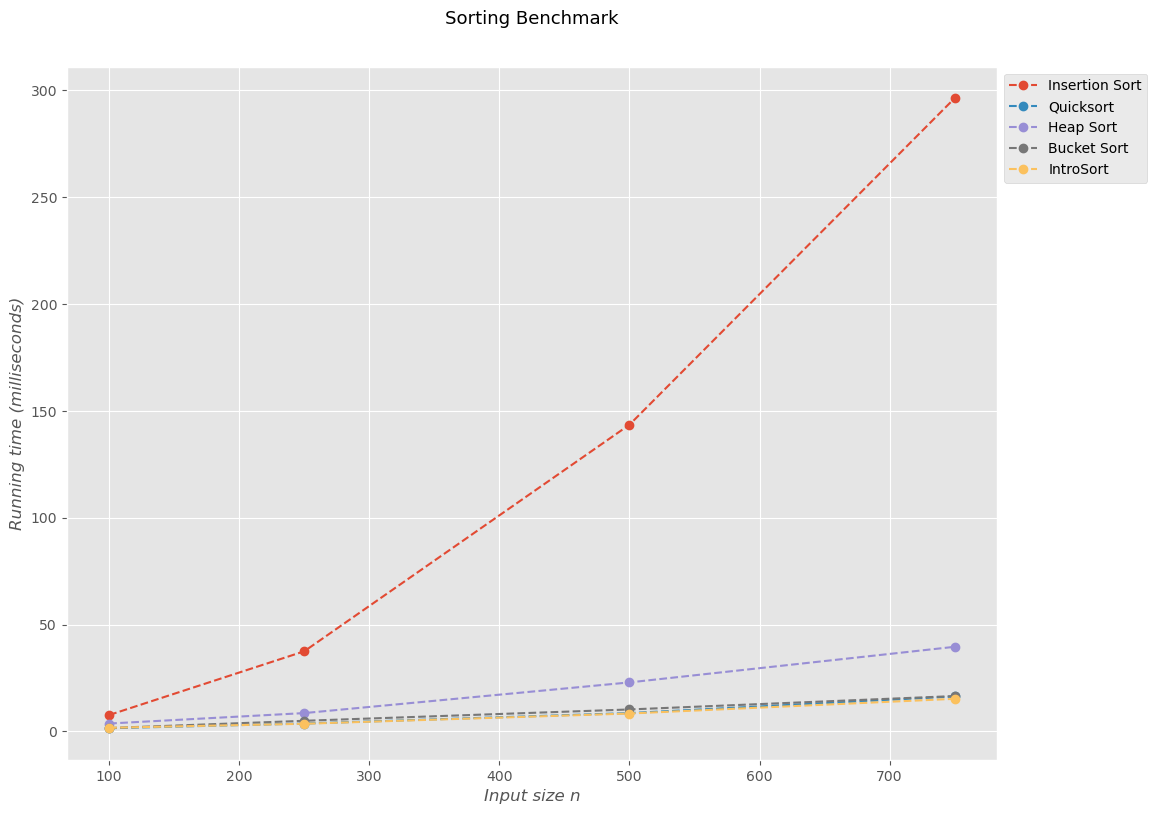
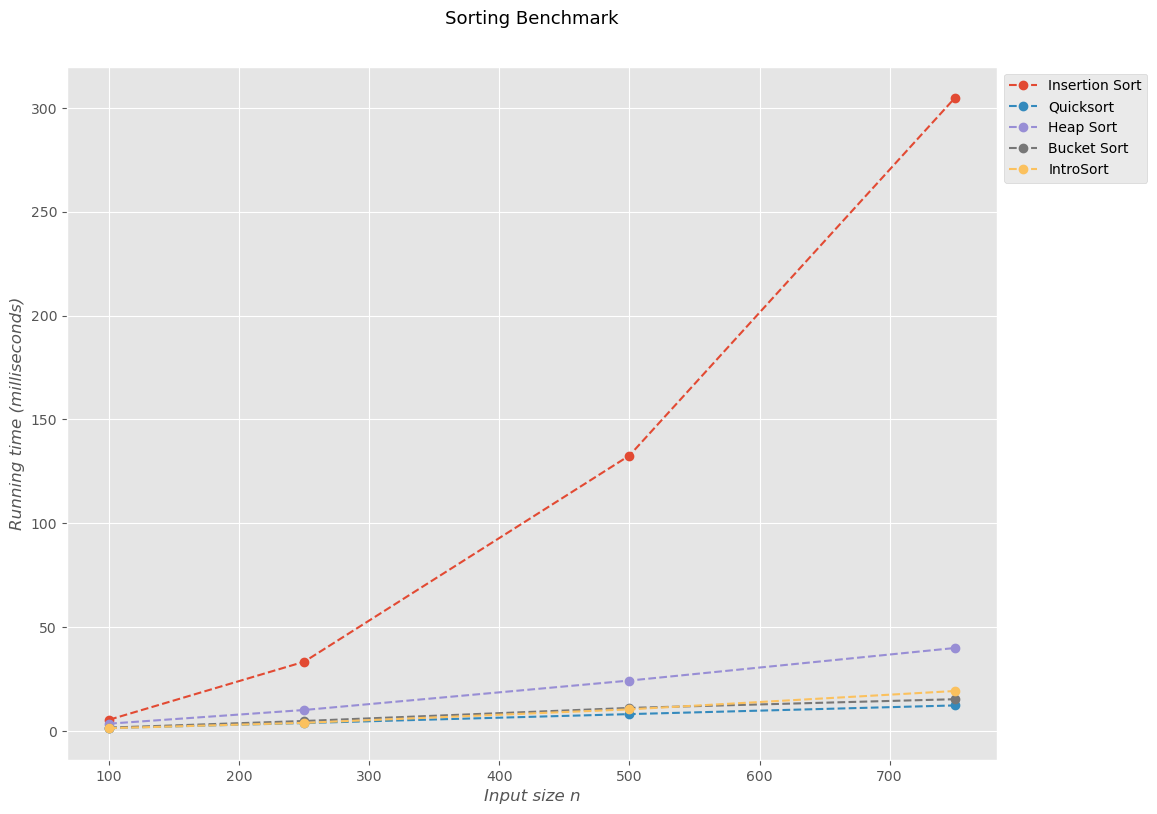
Created another chart for big o (excluding insertion sort) otherwise the lines are too close to each other. Added dpcstring to bucket, quick and inserion sorts

diff --git a/sorting_algorithms.py b/sorting_algorithms.py
@@ -13,17 +13,22 @@ import numpy as np
 
 
 def insertionSort(array, begin=0, end=None):
+    """ Sorting is done by splitting the array into a sorted and 
+    an unsorted part. Values from the unsorted part are selected 
+    and moved to their correct position in the sorted part. """
 
-    # Loop through the array starting from its second element
+    # None is initiated to be used in IntroSort implementation
     if end == None:
         end = len(array)
 
+    # Loop through the array
     for slot in range(begin, end):
 
         # Select the element to position in its correct place
         current_value = array[slot]
 
-        # Initialize a variable for finding the correct position of the current value
+        # Initialize a variable for finding the correct position of
+        # the current value
         position = slot
 
         # Loop through the array and find the correct position
@@ -46,6 +51,9 @@ def insertionSort(array, begin=0, end=None):
 # https://brilliant.org/wiki/quick-sort/
 
 def quickSort(array):
+    """ Sorting is done by selecting an element as pivot 
+    to partition the array around the picked pivot. """
+
     # Base case for the recursion where there is
     # only one element in the array.
     length = len(array)
@@ -87,8 +95,8 @@ def heapSort(array):
             max_heapify(array, heap_size, i)
 
     def max_heapify(array, heap_size, i):
-        """ Function for maintaining the max-heap property:
-        meaning that a node can't have a greater value than its parent."""
+        """ Function for maintaining the max-heap property: meaning 
+        that a node can't have a greater value than its parent."""
 
         # Initialize the largest as a root
         largest = i
@@ -131,6 +139,10 @@ def heapSort(array):
 # https://stackabuse.com/bucket-sort-in-python/
 
 def bucketSort(array):
+    """ The main function for bucket sort implementation for sorting 
+    array elements into buckets and then calling insertion_sort function
+    on each of the buckets """
+
     # Find maximum value in the list and use array length to determine
     # which value in the array goes into which bucket
     max_value = max(array)
@@ -165,7 +177,6 @@ def bucketSort(array):
 
 
 # 5. IntroSort
-# https://www.geeksforgeeks.org/introsort-or-introspective-sort/
 # https://gist.github.com/Alfex4936/e8b6b7c06a181d3faa84b155b20e6de6
 
 def introSort(array):
@@ -204,6 +215,7 @@ def introsort_helper(array, start, end, size_threshold, depth_limit):
         for pivot and get its index. It then will be used as a partition 
         to split the array into smaller parts for futher sorting.
         """
+
         # Compare each element of the array to the pivot.
         while True:
             while array[low] < pivot:

diff --git a/outputs_for_report.py b/outputs_for_report.py
@@ -1,6 +1,7 @@
 """
 PLOT AND EXCEL FOR THE REPORT
 """
+
 import matplotlib.pyplot as plt
 import numpy as np
 import os
@@ -8,6 +9,7 @@ import os
 
 def excel_file(df):
     """ Creating a new folder and saving excel file to it. """
+
     # Create a new directory 'assets'
     # if it doesn't exist.
     if not os.path.isdir('assets'):
@@ -17,7 +19,7 @@ def excel_file(df):
     df.to_excel('assets/benchmark_results.xlsx')
 
 
-def plot(df):
+def benchmark_plot(df):
     """ Plot performace of soting algorithms and save it. """
 
     # Rearrange the dataframe (sothat algorithms are now columns).
@@ -35,17 +37,23 @@ def plot(df):
 
     # Move legend outside the plot.
     leg = plt.legend(bbox_to_anchor=(1, 1), loc='best')
-
-    # Save the plot.
-    plt.savefig('assets/benchmark_plot.png', bbox_inches='tight')
     return leg, ax
 
 
-def big_o_chart_and_excel(df):
+def save_plot(df):
+    """ Saving the benchmark plot"""
+
+     # Plot the benchmarks.
+    leg, ax = benchmark_plot(df)
+    # Save the plot.
+    plt.savefig('assets/benchmark_plot.png', bbox_inches='tight')
+
+
+def big_o_chart(df):
     """ Big O notation add-on for the benchmark plot. """
 
     # Plot the benchmarks.
-    leg, ax = plot(df)
+    leg, ax = benchmark_plot(df)
 
     # Fill the space with colour for Big O.
     # Adapted from https://www.statology.org/matplotlib-fill-between/
@@ -62,10 +70,6 @@ def big_o_chart_and_excel(df):
     horrible = ax.fill_between(x, y, np.max(
         y)+35000, facecolor='red', label='horrible', interpolate=True,  alpha=0.5)
 
-    # Limit the axis.
-    plt.xlim(0, 10200)
-    plt.ylim(-500, 55000)
-
     # Split the legend into two.
     # https://matplotlib.org/2.0.2/users/legend_guide.html
     ax.add_artist(leg)
@@ -73,12 +77,37 @@ def big_o_chart_and_excel(df):
                ncol=5, bbox_to_anchor=(0.8, 1), loc=4, frameon=False)
     plt.title('Big O Notation', y=1.09, fontsize=13)
 
-    # Save the plot and close.
+
+def saveBigOchart(df):
+    """ Saving the big o chart. """
+
+    big_o_chart(df)
+
+    # Limit the axis.
+    plt.xlim(0, 10200)
+    plt.ylim(-500, 55000)
+
     plt.savefig('assets/big_o_notation_plot.png', bbox_inches="tight")
     plt.close()
 
 
-def assets_for_report(df):
+def saveBigOchartExcludingInsertionSort(df):
+    """ Big O notation add-on for the benchmark plot. """
+
+    big_o_chart(df)
+
+    # Limit the axis.
+    plt.xlim(0, 10200)
+    plt.ylim(-200, 20000)
+
+
+    plt.savefig('assets/big_o_notation_plot_excluding_insertion_sort.png', bbox_inches="tight")
+    plt.close()
+
+    
+
+def assetsForReport(df):
     """ Run the above functions """
+    
     excel_file(df)
-    big_o_chart_and_excel(df)
+    save_plot(df)

diff --git a/main.py b/main.py
@@ -10,7 +10,7 @@ from time import time
 import numpy as np
 import pandas as pd
 from sorting_algorithms import insertionSort, quickSort, heapSort, bucketSort, introSort
-from outputs_for_report import assets_for_report
+from outputs_for_report import assetsForReport, saveBigOchart, saveBigOchartExcludingInsertionSort
 
 
 """
@@ -20,9 +20,9 @@ TIME BENCHMARK
 
 def shuffled_array(array):
     """ Shuffle an array using a numpy random number generator """
+
     rng = np.random.default_rng()
     rng.shuffle(array)
-
     return array
 
 
@@ -93,11 +93,15 @@ def results_as_dataframe(input_sizes, benchmarks):
 # Driver code.
 if __name__ == '__main__':
     
-    input_sizes = [100, 250, 500, 750]# , 1000, 1250,2500, 3750, 5000, 6250, 7500, 8750, 10000]
-
+    # Run benchmarks for sorting algorithms for input size arrays.
+    input_sizes = [100, 250, 500, 750, 1000, 1250,2500, 3750, 5000, 6250, 7500, 8750, 10000]
     benchmarks = benchmark_runner(input_sizes)
     benchmark_results = results_as_dataframe(input_sizes, benchmarks)
-    assets_for_report(benchmark_results)
+
+    # Save excel, plot and big O charts.
+    assetsForReport(benchmark_results)
+    saveBigOchart(benchmark_results)
+    saveBigOchartExcludingInsertionSort(df)(benchmark_results[1:])
 
     # Output benchmark results into the console.
     headers = [benchmark_results.columns.name] + \
